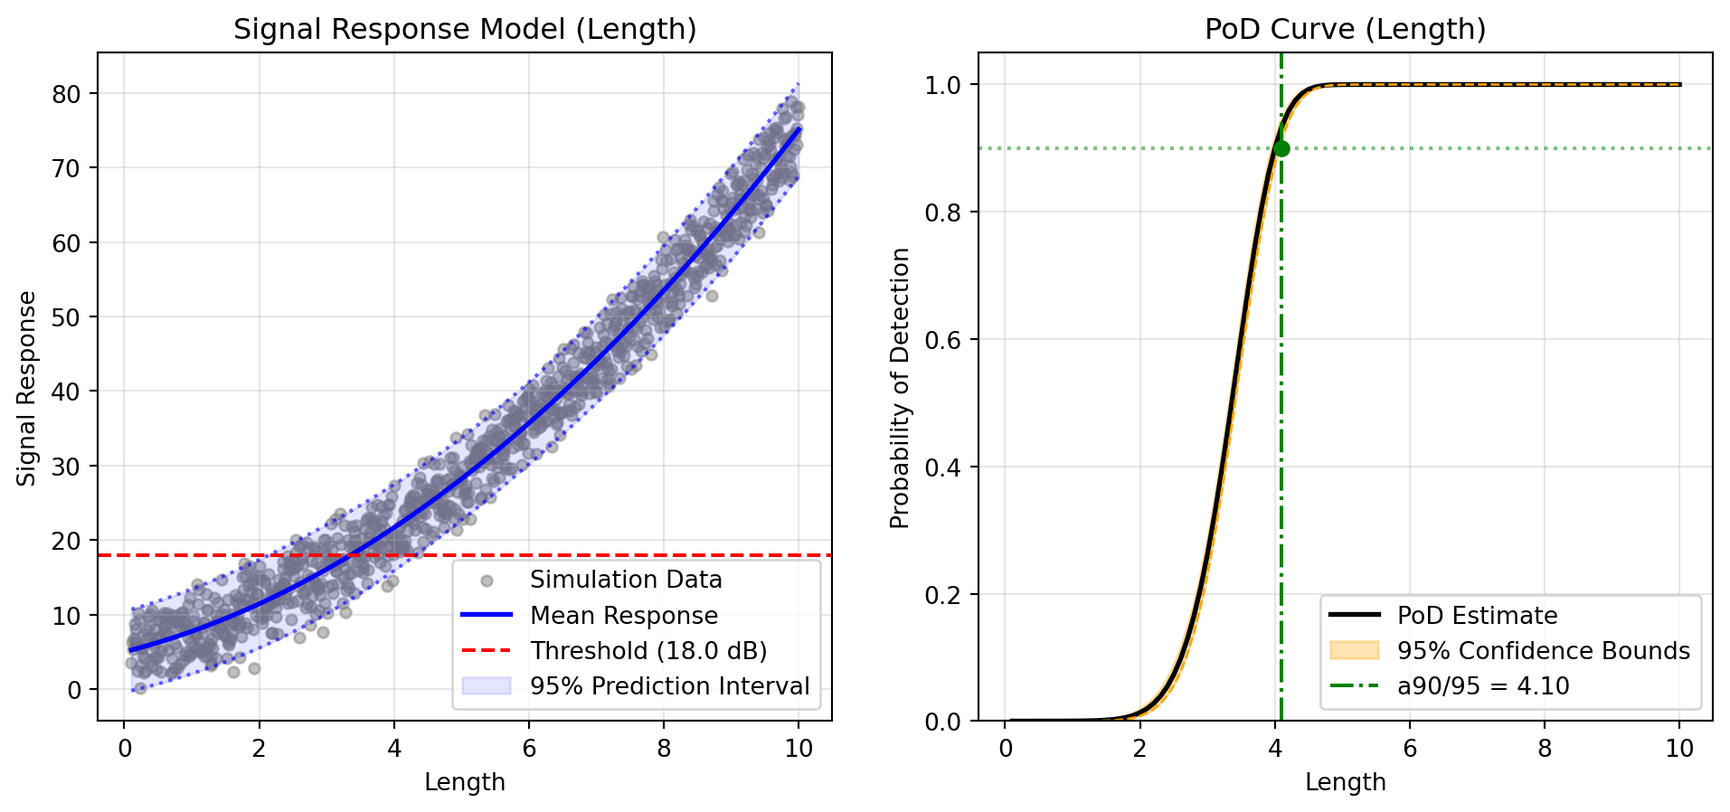
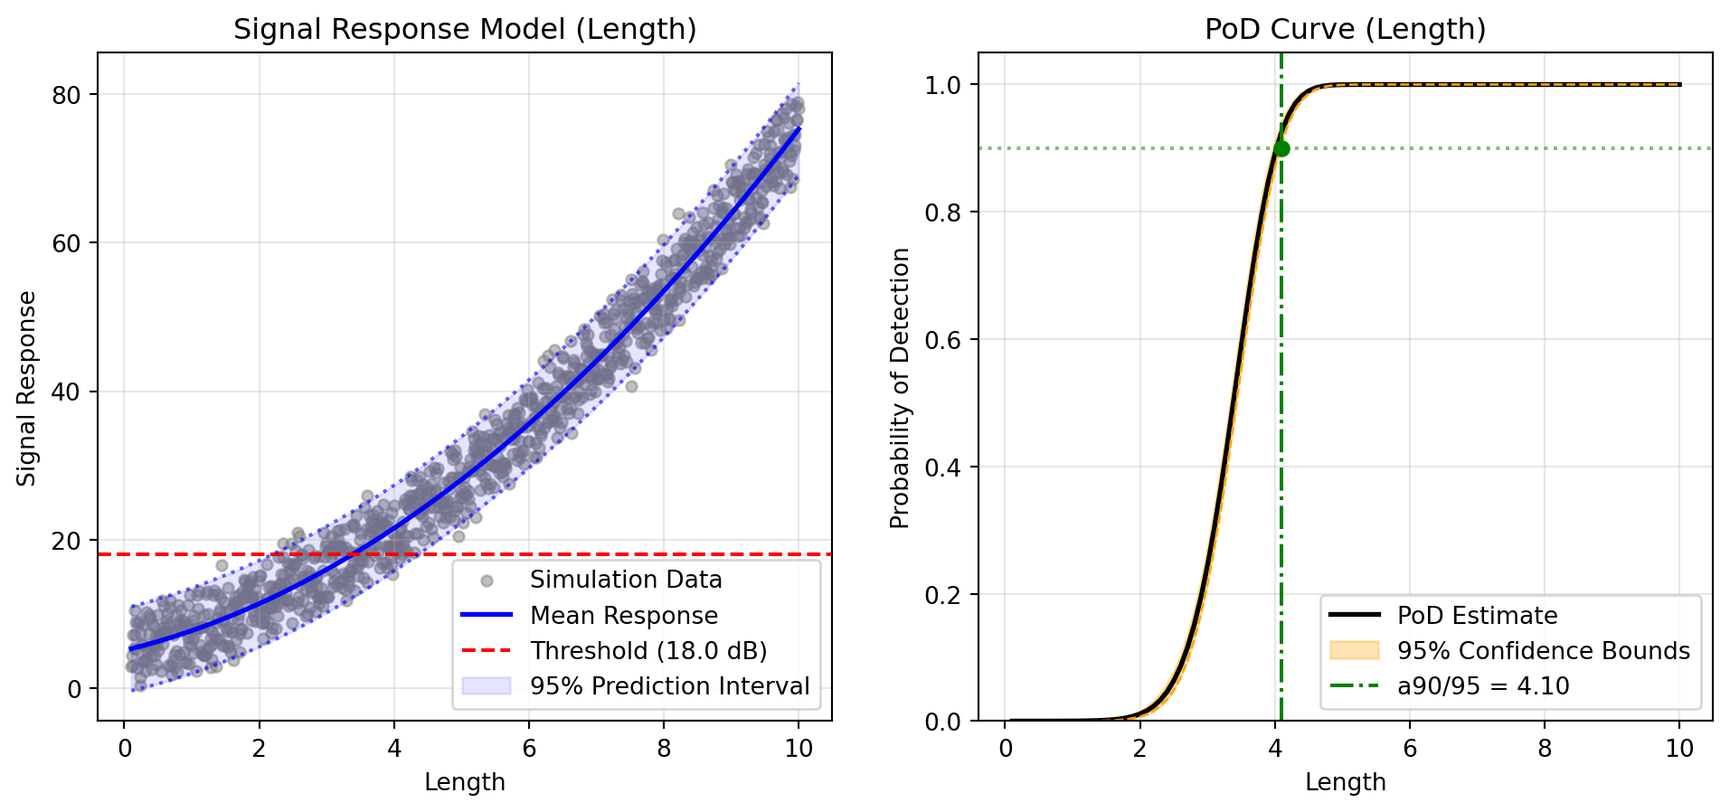
Built site for gh-pages

diff --git a/docs/qs_class.html b/docs/qs_class.html
@@ -240,7 +240,7 @@ pre > code.sourceCode > span > a:first-child::before { text-decoration: underlin
 <section id="setup-flawed-data-generation" class="level3">
 <h3 class="anchored" data-anchor-id="setup-flawed-data-generation">1. Setup &amp; “Flawed” Data Generation</h3>
 <p>First, we define our physics simulation and create a dataset with a deliberate gap (missing data between 3mm and 7mm).</p>
-<div id="e4dadc15" class="cell" data-execution_count="1">
+<div id="fd547cdb" class="cell" data-execution_count="1">
 <div class="code-copy-outer-scaffold"><div class="sourceCode cell-code" id="cb1"><pre class="sourceCode python code-with-copy"><code class="sourceCode python"><span id="cb1-1"><a href="#cb1-1" aria-hidden="true" tabindex="-1"></a><span class="im">import</span> numpy <span class="im">as</span> np</span>
 <span id="cb1-2"><a href="#cb1-2" aria-hidden="true" tabindex="-1"></a><span class="im">import</span> pandas <span class="im">as</span> pd</span>
 <span id="cb1-3"><a href="#cb1-3" aria-hidden="true" tabindex="-1"></a><span class="im">import</span> matplotlib.pyplot <span class="im">as</span> plt</span>
@@ -268,15 +268,15 @@ pre > code.sourceCode > span > a:first-child::before { text-decoration: underlin
 <span id="cb1-25"><a href="#cb1-25" aria-hidden="true" tabindex="-1"></a></span>
 <span id="cb1-26"><a href="#cb1-26" aria-hidden="true" tabindex="-1"></a><span class="co"># --- Create Flawed Data (Gap between 3mm and 7mm) ---</span></span>
 <span id="cb1-27"><a href="#cb1-27" aria-hidden="true" tabindex="-1"></a>df1 <span class="op">=</span> pd.DataFrame({</span>
-<span id="cb1-28"><a href="#cb1-28" aria-hidden="true" tabindex="-1"></a>    <span class="st">'Length'</span>: np.random.uniform(<span class="fl">0.1</span>, <span class="fl">3.0</span>, <span class="dv">20</span>),</span>
-<span id="cb1-29"><a href="#cb1-29" aria-hidden="true" tabindex="-1"></a>    <span class="st">'Angle'</span>: np.random.uniform(<span class="op">-</span><span class="dv">10</span>, <span class="dv">10</span>, <span class="dv">20</span>),</span>
-<span id="cb1-30"><a href="#cb1-30" aria-hidden="true" tabindex="-1"></a>    <span class="st">'Roughness'</span>: np.random.uniform(<span class="dv">0</span>, <span class="fl">0.5</span>, <span class="dv">20</span>)</span>
+<span id="cb1-28"><a href="#cb1-28" aria-hidden="true" tabindex="-1"></a>    <span class="st">'Length'</span>: np.random.uniform(<span class="fl">0.1</span>, <span class="fl">3.0</span>, <span class="dv">40</span>),</span>
+<span id="cb1-29"><a href="#cb1-29" aria-hidden="true" tabindex="-1"></a>    <span class="st">'Angle'</span>: np.random.uniform(<span class="op">-</span><span class="dv">10</span>, <span class="dv">10</span>, <span class="dv">40</span>),</span>
+<span id="cb1-30"><a href="#cb1-30" aria-hidden="true" tabindex="-1"></a>    <span class="st">'Roughness'</span>: np.random.uniform(<span class="dv">0</span>, <span class="fl">0.5</span>, <span class="dv">40</span>)</span>
 <span id="cb1-31"><a href="#cb1-31" aria-hidden="true" tabindex="-1"></a>})</span>
 <span id="cb1-32"><a href="#cb1-32" aria-hidden="true" tabindex="-1"></a></span>
 <span id="cb1-33"><a href="#cb1-33" aria-hidden="true" tabindex="-1"></a>df2 <span class="op">=</span> pd.DataFrame({</span>
-<span id="cb1-34"><a href="#cb1-34" aria-hidden="true" tabindex="-1"></a>    <span class="st">'Length'</span>: np.random.uniform(<span class="fl">7.0</span>, <span class="fl">10.0</span>, <span class="dv">20</span>),</span>
-<span id="cb1-35"><a href="#cb1-35" aria-hidden="true" tabindex="-1"></a>    <span class="st">'Angle'</span>: np.random.uniform(<span class="op">-</span><span class="dv">10</span>, <span class="dv">10</span>, <span class="dv">20</span>),</span>
-<span id="cb1-36"><a href="#cb1-36" aria-hidden="true" tabindex="-1"></a>    <span class="st">'Roughness'</span>: np.random.uniform(<span class="dv">0</span>, <span class="fl">0.5</span>, <span class="dv">20</span>)</span>
+<span id="cb1-34"><a href="#cb1-34" aria-hidden="true" tabindex="-1"></a>    <span class="st">'Length'</span>: np.random.uniform(<span class="fl">7.0</span>, <span class="fl">10.0</span>, <span class="dv">40</span>),</span>
+<span id="cb1-35"><a href="#cb1-35" aria-hidden="true" tabindex="-1"></a>    <span class="st">'Angle'</span>: np.random.uniform(<span class="op">-</span><span class="dv">10</span>, <span class="dv">10</span>, <span class="dv">40</span>),</span>
+<span id="cb1-36"><a href="#cb1-36" aria-hidden="true" tabindex="-1"></a>    <span class="st">'Roughness'</span>: np.random.uniform(<span class="dv">0</span>, <span class="fl">0.5</span>, <span class="dv">40</span>)</span>
 <span id="cb1-37"><a href="#cb1-37" aria-hidden="true" tabindex="-1"></a>})</span>
 <span id="cb1-38"><a href="#cb1-38" aria-hidden="true" tabindex="-1"></a></span>
 <span id="cb1-39"><a href="#cb1-39" aria-hidden="true" tabindex="-1"></a><span class="co"># Combine and Initialize Study</span></span>
@@ -289,18 +289,18 @@ pre > code.sourceCode > span > a:first-child::before { text-decoration: underlin
 <span id="cb1-46"><a href="#cb1-46" aria-hidden="true" tabindex="-1"></a>)</span>
 <span id="cb1-47"><a href="#cb1-47" aria-hidden="true" tabindex="-1"></a>study.add_data(df_initial)</span></code></pre></div><button title="Copy to Clipboard" class="code-copy-button"><i class="bi"></i></button></div>
 <div class="cell-output cell-output-stdout">
-<pre><code>Data updated. Total rows: 40</code></pre>
+<pre><code>Data updated. Total rows: 80</code></pre>
 </div>
 </div>
 </section>
 <section id="diagnosis-detecting-the-issue" class="level3">
 <h3 class="anchored" data-anchor-id="diagnosis-detecting-the-issue">2. Diagnosis (Detecting the Issue)</h3>
 <p>We now ask the study manager to diagnose the health of our experiment. We expect it to flag the Input Coverage test because of the gap we created.</p>
-<div id="b8f08a2a" class="cell" data-execution_count="2">
+<div id="77ca8be1" class="cell" data-execution_count="2">
 <div class="code-copy-outer-scaffold"><div class="sourceCode cell-code" id="cb3"><pre class="sourceCode python code-with-copy"><code class="sourceCode python"><span id="cb3-1"><a href="#cb3-1" aria-hidden="true" tabindex="-1"></a>study.diagnose()</span></code></pre></div><button title="Copy to Clipboard" class="code-copy-button"><i class="bi"></i></button></div>
 <div class="cell-output cell-output-stdout">
 <pre><code>Running validation...
-Validation passed. 40 valid rows ready.
+Validation passed. 80 valid rows ready.
 Checking sample sufficiency...</code></pre>
 </div>
 <div class="cell-output cell-output-display" data-execution_count="2">
@@ -324,7 +324,7 @@ Checking sample sufficiency...</code></pre>
 <td>Input Coverage</td>
 <td>Length</td>
 <td>Max Gap Ratio</td>
-<td>0.4377</td>
+<td>0.4514</td>
 <td>False</td>
 </tr>
 <tr class="even">
@@ -332,7 +332,7 @@ Checking sample sufficiency...</code></pre>
 <td>Input Coverage</td>
 <td>Angle</td>
 <td>Max Gap Ratio</td>
-<td>0.1309</td>
+<td>0.0661</td>
 <td>True</td>
 </tr>
 <tr class="odd">
@@ -340,7 +340,7 @@ Checking sample sufficiency...</code></pre>
 <td>Input Coverage</td>
 <td>Roughness</td>
 <td>Max Gap Ratio</td>
-<td>0.0720</td>
+<td>0.0543</td>
 <td>True</td>
 </tr>
 <tr class="even">
@@ -348,7 +348,7 @@ Checking sample sufficiency...</code></pre>
 <td>Model Fit (CV)</td>
 <td>Signal</td>
 <td>Mean R2 Score</td>
-<td>0.9944</td>
+<td>0.9972</td>
 <td>True</td>
 </tr>
 <tr class="odd">
@@ -356,8 +356,8 @@ Checking sample sufficiency...</code></pre>
 <td>Bootstrap Convergence</td>
 <td>Signal</td>
 <td>Relative CI Width</td>
-<td>0.3663</td>
-<td>False</td>
+<td>0.0492</td>
+<td>True</td>
 </tr>
 </tbody>
 </table>
@@ -369,7 +369,7 @@ Checking sample sufficiency...</code></pre>
 <section id="adaptive-refinement-the-fix" class="level3">
 <h3 class="anchored" data-anchor-id="adaptive-refinement-the-fix">3. Adaptive Refinement (The Fix)</h3>
 <p>Instead of manually guessing where to add points, we use refine(). The study manager automatically detects the gap and generates targeted samples to fill it.</p>
-<div id="cc369562" class="cell" data-execution_count="3">
+<div id="2c36366c" class="cell" data-execution_count="3">
 <div class="code-copy-outer-scaffold"><div class="sourceCode cell-code" id="cb5"><pre class="sourceCode python code-with-copy"><code class="sourceCode python"><span id="cb5-1"><a href="#cb5-1" aria-hidden="true" tabindex="-1"></a><span class="co"># Generate active learning samples (20 points to fill the gap)</span></span>
 <span id="cb5-2"><a href="#cb5-2" aria-hidden="true" tabindex="-1"></a>new_samples <span class="op">=</span> study.refine(n_points<span class="op">=</span><span class="dv">20</span>)</span>
 <span id="cb5-3"><a href="#cb5-3" aria-hidden="true" tabindex="-1"></a></span>
@@ -382,17 +382,16 @@ Checking sample sufficiency...</code></pre>
 <div class="cell-output cell-output-stdout">
 <pre><code>Diagnostics flagged issues. Initiating Active Learning...
  -&gt; Strategy: Exploration (Filling gaps in Length)
- -&gt; Strategy: Exploitation (Targeting high uncertainty regions)
-Data updated. Total rows: 80</code></pre>
+Data updated. Total rows: 100</code></pre>
 </div>
 </div>
 <p>Now we verify that the issue is resolved:</p>
-<div id="098dd801" class="cell" data-execution_count="4">
+<div id="9cc36b3d" class="cell" data-execution_count="4">
 <div class="code-copy-outer-scaffold"><div class="sourceCode cell-code" id="cb7"><pre class="sourceCode python code-with-copy"><code class="sourceCode python"><span id="cb7-1"><a href="#cb7-1" aria-hidden="true" tabindex="-1"></a><span class="co"># Re-run diagnostics to confirm the green light</span></span>
 <span id="cb7-2"><a href="#cb7-2" aria-hidden="true" tabindex="-1"></a>study.diagnose()</span></code></pre></div><button title="Copy to Clipboard" class="code-copy-button"><i class="bi"></i></button></div>
 <div class="cell-output cell-output-stdout">
 <pre><code>Running validation...
-Validation passed. 80 valid rows ready.
+Validation passed. 100 valid rows ready.
 Checking sample sufficiency...</code></pre>
 </div>
 <div class="cell-output cell-output-display" data-execution_count="4">
@@ -416,7 +415,7 @@ Checking sample sufficiency...</code></pre>
 <td>Input Coverage</td>
 <td>Length</td>
 <td>Max Gap Ratio</td>
-<td>0.0708</td>
+<td>0.0368</td>
 <td>True</td>
 </tr>
 <tr class="even">
@@ -424,7 +423,7 @@ Checking sample sufficiency...</code></pre>
 <td>Input Coverage</td>
 <td>Angle</td>
 <td>Max Gap Ratio</td>
-<td>0.0755</td>
+<td>0.0545</td>
 <td>True</td>
 </tr>
 <tr class="odd">
@@ -432,7 +431,7 @@ Checking sample sufficiency...</code></pre>
 <td>Input Coverage</td>
 <td>Roughness</td>
 <td>Max Gap Ratio</td>
-<td>0.0469</td>
+<td>0.0427</td>
 <td>True</td>
 </tr>
 <tr class="even">
@@ -440,7 +439,7 @@ Checking sample sufficiency...</code></pre>
 <td>Model Fit (CV)</td>
 <td>Signal</td>
 <td>Mean R2 Score</td>
-<td>0.9981</td>
+<td>0.9964</td>
 <td>True</td>
 </tr>
 <tr class="odd">
@@ -448,7 +447,7 @@ Checking sample sufficiency...</code></pre>
 <td>Bootstrap Convergence</td>
 <td>Signal</td>
 <td>Relative CI Width</td>
-<td>0.0323</td>
+<td>0.0347</td>
 <td>True</td>
 </tr>
 </tbody>
@@ -470,7 +469,7 @@ Checking sample sufficiency...</code></pre>
 1. Selecting Mean Model (Cross-Validation)...
    -&gt; Selected Polynomial Degree: 2
 2. Fitting Variance Model (Kernel Smoothing)...
-   -&gt; Smoothing Bandwidth: 0.9400
+   -&gt; Smoothing Bandwidth: 0.9479
 3. Inferring Error Distribution (AIC)...
    -&gt; Selected Distribution: norm
 4. Computing PoD Curve...
@@ -489,7 +488,7 @@ Checking sample sufficiency...</code></pre>
 <div id="fig-oop-results-1" class="quarto-float quarto-figure quarto-figure-center anchored">
 <figure class="quarto-float quarto-subfloat-fig figure">
 <div aria-describedby="fig-oop-results-1-caption-0ceaefa1-69ba-4598-a22c-09a6ac19f8ca">
-<img src="qs_class_files/figure-html/fig-oop-results-output-1.png" data-ref-parent="fig-oop-results" width="662" height="523" class="figure-img">
+<img src="qs_class_files/figure-html/fig-oop-results-output-1.png" data-ref-parent="fig-oop-results" width="659" height="523" class="figure-img">
 </div>
 <figcaption class="quarto-float-caption-bottom quarto-subfloat-caption quarto-subfloat-fig" id="fig-oop-results-1-caption-0ceaefa1-69ba-4598-a22c-09a6ac19f8ca">
 (a) Signal Response Model (Physics)
@@ -501,7 +500,7 @@ Checking sample sufficiency...</code></pre>
 <div id="fig-oop-results-2" class="quarto-float quarto-figure quarto-figure-center anchored">
 <figure class="quarto-float quarto-subfloat-fig figure">
 <div aria-describedby="fig-oop-results-2-caption-0ceaefa1-69ba-4598-a22c-09a6ac19f8ca">
-<img src="qs_class_files/figure-html/fig-oop-results-output-2.png" data-ref-parent="fig-oop-results" width="666" height="523" class="figure-img">
+<img src="qs_class_files/figure-html/fig-oop-results-output-2.png" data-ref-parent="fig-oop-results" width="663" height="523" class="figure-img">
 </div>
 <figcaption class="quarto-float-caption-bottom quarto-subfloat-caption quarto-subfloat-fig" id="fig-oop-results-2-caption-0ceaefa1-69ba-4598-a22c-09a6ac19f8ca">
 (b) Probability of Detection Curve (Reliability)
@@ -564,10 +563,15 @@ Figure&nbsp;1: Reliability Analysis Results
 <span id="cb12-42"><a href="#cb12-42" aria-hidden="true" tabindex="-1"></a>)</span>
 <span id="cb12-43"><a href="#cb12-43" aria-hidden="true" tabindex="-1"></a>study.add_data(df)</span>
 <span id="cb12-44"><a href="#cb12-44" aria-hidden="true" tabindex="-1"></a></span>
-<span id="cb12-45"><a href="#cb12-45" aria-hidden="true" tabindex="-1"></a>study.diagnose()</span>
-<span id="cb12-46"><a href="#cb12-46" aria-hidden="true" tabindex="-1"></a>study.refine()</span>
-<span id="cb12-47"><a href="#cb12-47" aria-hidden="true" tabindex="-1"></a>_ <span class="op">=</span> study.pod(poi_col<span class="op">=</span><span class="st">"Length"</span>, threshold<span class="op">=</span><span class="dv">15</span>)</span>
-<span id="cb12-48"><a href="#cb12-48" aria-hidden="true" tabindex="-1"></a>study.visualise()</span></code></pre></div><button title="Copy to Clipboard" class="code-copy-button"><i class="bi"></i></button></div>
+<span id="cb12-45"><a href="#cb12-45" aria-hidden="true" tabindex="-1"></a>study.validate()</span>
+<span id="cb12-46"><a href="#cb12-46" aria-hidden="true" tabindex="-1"></a></span>
+<span id="cb12-47"><a href="#cb12-47" aria-hidden="true" tabindex="-1"></a>study.diagnose()</span>
+<span id="cb12-48"><a href="#cb12-48" aria-hidden="true" tabindex="-1"></a></span>
+<span id="cb12-49"><a href="#cb12-49" aria-hidden="true" tabindex="-1"></a>study.refine()</span>
+<span id="cb12-50"><a href="#cb12-50" aria-hidden="true" tabindex="-1"></a></span>
+<span id="cb12-51"><a href="#cb12-51" aria-hidden="true" tabindex="-1"></a>_ <span class="op">=</span> study.pod(poi_col<span class="op">=</span><span class="st">"Length"</span>, threshold<span class="op">=</span><span class="dv">15</span>)</span>
+<span id="cb12-52"><a href="#cb12-52" aria-hidden="true" tabindex="-1"></a></span>
+<span id="cb12-53"><a href="#cb12-53" aria-hidden="true" tabindex="-1"></a>study.visualise()</span></code></pre></div><button title="Copy to Clipboard" class="code-copy-button"><i class="bi"></i></button></div>
 </div>
 
 

diff --git a/docs/function.html b/docs/function.html
@@ -266,7 +266,7 @@ window.Quarto = {
 <section id="generating-an-experimental-design" class="level3">
 <h3 class="anchored" data-anchor-id="generating-an-experimental-design">Generating an Experimental Design</h3>
 <p>Create a Latin Hypercube design for a simulation study involving defect size (<span class="math inline">\(a\)</span>), angle (<span class="math inline">\(\theta\)</span>) and roughness (<span class="math inline">\(\sigma_{R}\)</span>).</p>
-<div id="72b30388" class="cell" data-execution_count="2">
+<div id="952f5828" class="cell" data-execution_count="2">
 <div class="code-copy-outer-scaffold"><div class="sourceCode cell-code" id="cb1"><pre class="sourceCode python code-with-copy"><code class="sourceCode python"><span id="cb1-1"><a href="#cb1-1" aria-hidden="true" tabindex="-1"></a><span class="im">import</span> pandas <span class="im">as</span> pd</span>
 <span id="cb1-2"><a href="#cb1-2" aria-hidden="true" tabindex="-1"></a><span class="im">import</span> numpy <span class="im">as</span> np</span>
 <span id="cb1-3"><a href="#cb1-3" aria-hidden="true" tabindex="-1"></a><span class="im">from</span> digiqual.sampling <span class="im">import</span> generate_lhs</span>
@@ -337,7 +337,7 @@ window.Quarto = {
 <section id="validating-simulation-data" class="level3">
 <h3 class="anchored" data-anchor-id="validating-simulation-data">Validating Simulation Data</h3>
 <p>Once you have your simulation results, ensure they are ready for PoD analysis.</p>
-<div id="123bc161" class="cell" data-execution_count="3">
+<div id="b5e8933b" class="cell" data-execution_count="3">
 <div class="code-copy-outer-scaffold"><div class="sourceCode cell-code" id="cb2"><pre class="sourceCode python code-with-copy"><code class="sourceCode python"><span id="cb2-1"><a href="#cb2-1" aria-hidden="true" tabindex="-1"></a><span class="im">from</span> digiqual.diagnostics <span class="im">import</span> validate_simulation</span>
 <span id="cb2-2"><a href="#cb2-2" aria-hidden="true" tabindex="-1"></a></span>
 <span id="cb2-3"><a href="#cb2-3" aria-hidden="true" tabindex="-1"></a><span class="kw">def</span> apply_physics(df):</span>
@@ -363,17 +363,17 @@ window.Quarto = {
 <span id="cb2-23"><a href="#cb2-23" aria-hidden="true" tabindex="-1"></a>display(Markdown(<span class="ss">f"**Valid rows:** </span><span class="sc">{</span><span class="bu">len</span>(df_clean)<span class="sc">}</span><span class="ss">"</span>))</span>
 <span id="cb2-24"><a href="#cb2-24" aria-hidden="true" tabindex="-1"></a>display(Markdown(<span class="ss">f"**Dropped rows:** </span><span class="sc">{</span><span class="bu">len</span>(df_removed)<span class="sc">}</span><span class="ss">"</span>))</span></code></pre></div><button title="Copy to Clipboard" class="code-copy-button"><i class="bi"></i></button></div>
 <div class="cell-output cell-output-display cell-output-markdown">
-<p><strong>Valid rows:</strong> 998</p>
+<p><strong>Valid rows:</strong> 1000</p>
 </div>
 <div class="cell-output cell-output-display cell-output-markdown">
-<p><strong>Dropped rows:</strong> 2</p>
+<p><strong>Dropped rows:</strong> 0</p>
 </div>
 </div>
 </section>
 <section id="checking-sample-sufficiency" class="level3">
 <h3 class="anchored" data-anchor-id="checking-sample-sufficiency">Checking Sample Sufficiency</h3>
 <p>We have validated data so now we want to check if we have enough samples to produce an accurate PoD Curve.</p>
-<div id="d9bb8200" class="cell" data-execution_count="4">
+<div id="a1ab987e" class="cell" data-execution_count="4">
 <div class="code-copy-outer-scaffold"><div class="sourceCode cell-code" id="cb3"><pre class="sourceCode python code-with-copy"><code class="sourceCode python"><span id="cb3-1"><a href="#cb3-1" aria-hidden="true" tabindex="-1"></a><span class="im">from</span> digiqual.diagnostics <span class="im">import</span> sample_sufficiency</span>
 <span id="cb3-2"><a href="#cb3-2" aria-hidden="true" tabindex="-1"></a></span>
 <span id="cb3-3"><a href="#cb3-3" aria-hidden="true" tabindex="-1"></a>ss <span class="op">=</span> sample_sufficiency(</span>
@@ -403,7 +403,7 @@ window.Quarto = {
 <td>Input Coverage</td>
 <td>Length</td>
 <td>Max Gap Ratio</td>
-<td>0.0027</td>
+<td>0.0019</td>
 <td>True</td>
 </tr>
 <tr class="even">
@@ -411,7 +411,7 @@ window.Quarto = {
 <td>Input Coverage</td>
 <td>Angle</td>
 <td>Max Gap Ratio</td>
-<td>0.0024</td>
+<td>0.0020</td>
 <td>True</td>
 </tr>
 <tr class="odd">
@@ -419,7 +419,7 @@ window.Quarto = {
 <td>Input Coverage</td>
 <td>Roughness</td>
 <td>Max Gap Ratio</td>
-<td>0.0027</td>
+<td>0.0020</td>
 <td>True</td>
 </tr>
 <tr class="even">
@@ -427,7 +427,7 @@ window.Quarto = {
 <td>Model Fit (CV)</td>
 <td>Signal</td>
 <td>Mean R2 Score</td>
-<td>0.9947</td>
+<td>0.9945</td>
 <td>True</td>
 </tr>
 <tr class="odd">
@@ -435,7 +435,7 @@ window.Quarto = {
 <td>Bootstrap Convergence</td>
 <td>Signal</td>
 <td>Relative CI Width</td>
-<td>0.0126</td>
+<td>0.0117</td>
 <td>True</td>
 </tr>
 </tbody>
@@ -448,7 +448,7 @@ window.Quarto = {
 <section id="adaptive-refinement-check" class="level3">
 <h3 class="anchored" data-anchor-id="adaptive-refinement-check">Adaptive Refinement Check</h3>
 <p>We now run the targeted sampler. Because <code>generate_lhs</code> provides good coverage by default, we expect the adaptive module to return an empty result, confirming no more work is needed.</p>
-<div id="14c9ee73" class="cell" data-execution_count="5">
+<div id="8e0d21ca" class="cell" data-execution_count="5">
 <div class="code-copy-outer-scaffold"><div class="sourceCode cell-code" id="cb4"><pre class="sourceCode python code-with-copy"><code class="sourceCode python"><span id="cb4-1"><a href="#cb4-1" aria-hidden="true" tabindex="-1"></a><span class="im">from</span> digiqual.adaptive <span class="im">import</span> generate_targeted_samples</span>
 <span id="cb4-2"><a href="#cb4-2" aria-hidden="true" tabindex="-1"></a></span>
 <span id="cb4-3"><a href="#cb4-3" aria-hidden="true" tabindex="-1"></a>new_samples <span class="op">=</span> generate_targeted_samples(</span>

diff --git a/api_reference/digiqual.core.SimulationStudy.visualise.html b/api_reference/digiqual.core.SimulationStudy.visualise.html
@@ -194,7 +194,11 @@ pre > code.sourceCode > span > a:first-child::before { text-decoration: underlin
     <h2 id="toc-title">On this page</h2>
    
   <ul>
-  <li><a href="#digiqual.core.SimulationStudy.visualise" id="toc-digiqual.core.SimulationStudy.visualise" class="nav-link active" data-scroll-target="#digiqual.core.SimulationStudy.visualise">visualise</a></li>
+  <li><a href="#digiqual.core.SimulationStudy.visualise" id="toc-digiqual.core.SimulationStudy.visualise" class="nav-link active" data-scroll-target="#digiqual.core.SimulationStudy.visualise">visualise</a>
+  <ul class="collapse">
+  <li><a href="#parameters" id="toc-parameters" class="nav-link" data-scroll-target="#parameters">Parameters</a></li>
+  <li><a href="#side-effects" id="toc-side-effects" class="nav-link" data-scroll-target="#side-effects">Side Effects</a></li>
+  </ul></li>
   </ul>
 <div class="toc-actions"><ul><li><a href="https://github.com/JGIBristol/digiqual/edit/main/api_reference/digiqual.core.SimulationStudy.visualise.qmd" class="toc-action"><i class="bi bi-github"></i>Edit this page</a></li><li><a href="https://github.com/JGIBristol/digiqual/issues/new" class="toc-action"><i class="bi empty"></i>Report an issue</a></li></ul></div></nav>
     </div>
@@ -207,9 +211,47 @@ pre > code.sourceCode > span > a:first-child::before { text-decoration: underlin
 <section id="digiqual.core.SimulationStudy.visualise" class="level1">
 <h1>visualise</h1>
 <div class="code-copy-outer-scaffold"><div class="sourceCode" id="cb1"><pre class="sourceCode python code-with-copy"><code class="sourceCode python"><span id="cb1-1"><a href="#cb1-1" aria-hidden="true" tabindex="-1"></a>visualise(show<span class="op">=</span><span class="va">True</span>, save_path<span class="op">=</span><span class="va">None</span>)</span></code></pre></div><button title="Copy to Clipboard" class="code-copy-button"><i class="bi"></i></button></div>
-<p>Generates, stores, and displays standard diagnostic plots.</p>
+<p>Generates, stores, and optionally displays standard diagnostic plots.</p>
+<p>This method creates the ‘Signal Model’ (physics view) and ‘PoD Curve’ (reliability view) figures based on the analysis in <code>self.pod_results</code>.</p>
+<section id="parameters" class="level2 doc-section doc-section-parameters">
+<h2 class="doc-section doc-section-parameters anchored" data-anchor-id="parameters">Parameters</h2>
+<table class="caption-top table">
+<colgroup>
+<col style="width: 9%">
+<col style="width: 6%">
+<col style="width: 75%">
+<col style="width: 9%">
+</colgroup>
+<thead>
+<tr class="header">
+<th>Name</th>
+<th>Type</th>
+<th>Description</th>
+<th>Default</th>
+</tr>
+</thead>
+<tbody>
+<tr class="odd">
+<td>show</td>
+<td>bool</td>
+<td>If True, displays the plots immediately. Default is True.</td>
+<td><code>True</code></td>
+</tr>
+<tr class="even">
+<td>save_path</td>
+<td>str</td>
+<td>If provided, saves the figures to this base path (appending ’_signal.png’ and ’_pod.png’).</td>
+<td><code>None</code></td>
+</tr>
+</tbody>
+</table>
+</section>
+<section id="side-effects" class="level2 doc-section doc-section-side-effects">
+<h2 class="doc-section doc-section-side-effects anchored" data-anchor-id="side-effects">Side Effects</h2>
+<p>Updates <code>self.plots</code> with the generated figure objects. Displays plots to the active output if <code>show=True</code>. Writes files to disk if <code>save_path</code> is provided.</p>
 
 
+</section>
 </section>
 
 </main> <!-- /main -->

diff --git a/api_reference/core.SimulationStudy.html b/api_reference/core.SimulationStudy.html
@@ -298,7 +298,7 @@ pre > code.sourceCode > span > a:first-child::before { text-decoration: underlin
 </tr>
 <tr class="even">
 <td><a href="../api_reference/digiqual.core.SimulationStudy.visualise.html#digiqual.core.SimulationStudy.visualise">visualise</a></td>
-<td>Generates, stores, and displays standard diagnostic plots.</td>
+<td>Generates, stores, and optionally displays standard diagnostic plots.</td>
 </tr>
 </tbody>
 </table>
